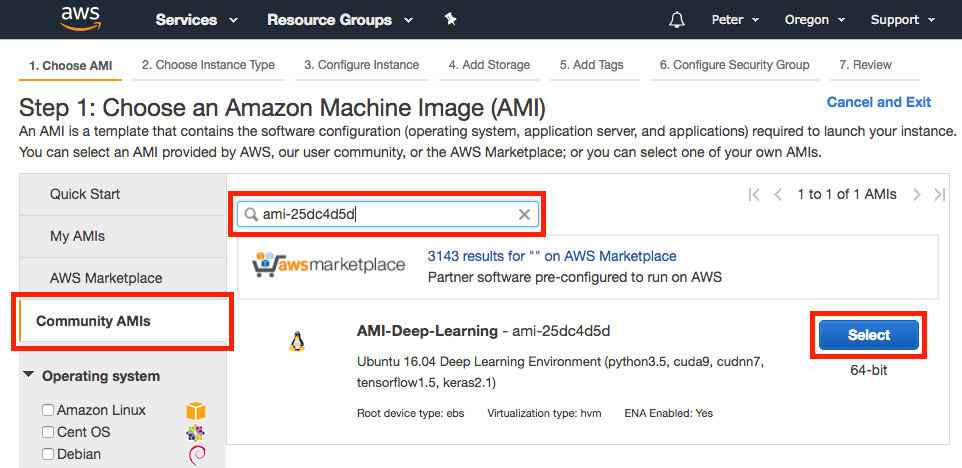
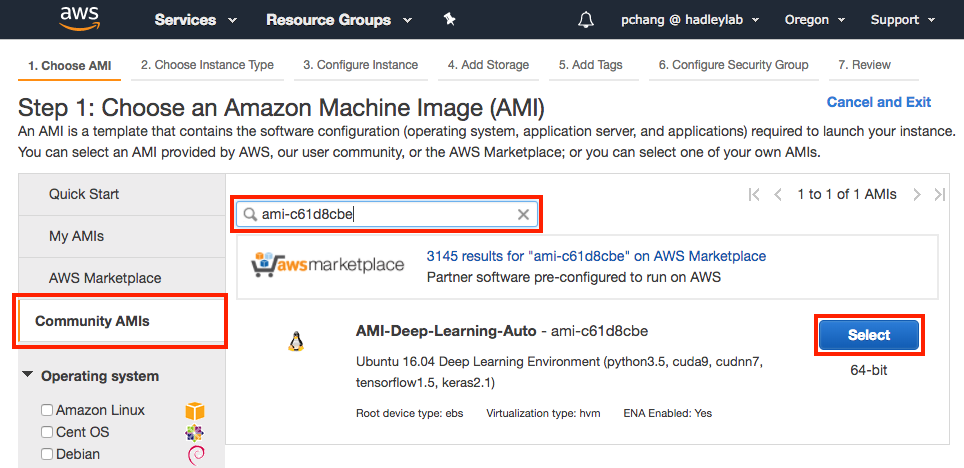
updates

diff --git a/README.md b/README.md
@@ -78,7 +78,7 @@ After recieving notification of successful limit increase, log into the EC2 cons
 
 ![AWS Instace Selection](./screenshots/aws-ec2new01.png)
 
-For the first step, choose `Community AMIs` on the left hand toolbar and type in `ami-25dc4d5d` into the `Search community AMIs` query field. Click on the blue `Select` button to choose this template image. This step configures the baseline software for the new EC2 instance. The remaining steps configure the baseline hardware and network protocol settings.
+For the first step, choose `Community AMIs` on the left hand toolbar and type in `ami-c61d8cbe` into the `Search community AMIs` query field. Click on the blue `Select` button to choose this template image. This step configures the baseline software for the new EC2 instance. The remaining steps configure the baseline hardware and network protocol settings.
 
 ![AWS Instance Type Selection](./screenshots/aws-ec2new02.png)
 
@@ -154,10 +154,6 @@ During the tutorial session, all code written by the participants will be comple
 
 ### Starting Jupyter server
 
-First log into your EC2 instance and make note of the public IP address of your instance which can be found in the `Instances` menu of the EC2 dashboard:
-
-![AWS IP Address](./screenshots/aws-jupyter00.png)
-
 A preconfigured Jupyter server has been set up on the EC2 instance broadcasting on port 8888. To launch this server simply run the following bash script after connecting to your EC2 instance (located in your home folder):
 ```
 ./start_jupyter.sh
@@ -169,11 +165,13 @@ This bash script will:
 * activate the `dl_aws` conda environment
 * launch a Jupyter server listening of port 8888
 
-Make careful note of the suffix of the provided address including login token:
+Upon execution, two URLs are shown: 
 
 ![AWS Jupyter server](./screenshots/aws-jupyter01.png)
 
-To connect to this Jupyter server, open a web-browser (e.g. Google Chrome), replace the `0.0.0.0` in the provided address with your own public IP address and enter the entire string into the address bar. In the above screenshots, the public IP address is `34.215.158.68` therefore the address is:
+The first URL is prefixed with `0.0.0.0`, the default template provided by the Jupyter notebook server, and the second URL is created by an auto-IP detection script, filling the address with your public IP address. If this does not appear, see **Finding your public IP address** section below to locate this manually. 
+
+To connect to this Jupyter server, open a web-browser (e.g. Google Chrome) enter the URL into the address bar. 
 
 ![AWS Jupyter server](./screenshots/aws-jupyter02.png)
 
@@ -188,6 +186,12 @@ Click on the `Code` folder to open and access the series of Jupyter notebook lec
 You should now have access to our first example Jupyter notebook. Feel free to walk through this template, execute the code (which will be run on your EC2 instance) and edit as you see fit.
 
 ![AWS Jupyter hello_tensorflow.ipynb](./screenshots/aws-jupyter05.png)
+
+### Finding your public IP address
+
+If the auto-IP detection feature does not work on your EC2 instance, you will need to manually find your IP address in the AWS dashboard. The public IP address of your instance can be found in the `Instances` menu of the EC2 dashboard:
+
+![AWS IP Address](./screenshots/aws-jupyter00.png)
 
 # Advanced Users
 
